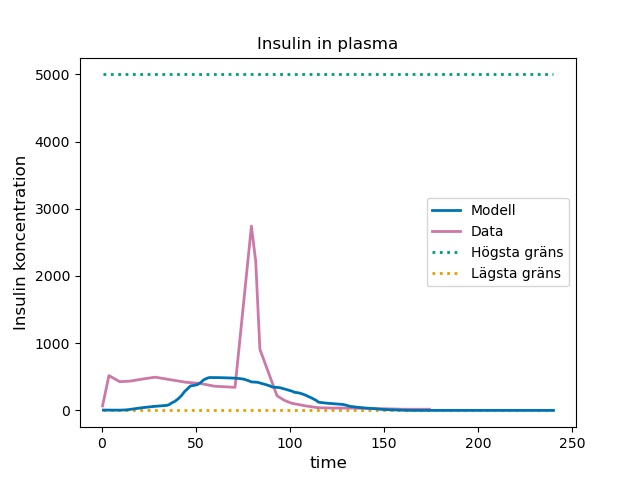
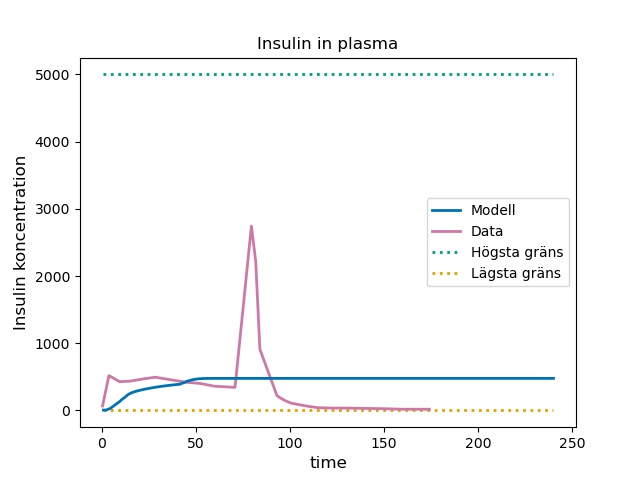
Sort of works without E

diff --git a/optimering/week16_open_loop_optimering.py b/optimering/week16_open_loop_optimering.py
@@ -26,7 +26,7 @@ cI_vec = data_I['conc'].values
 
 
 def open_loop(t,x,b): 
-    k1, k2, k3, k4, k5 = b
+    k1, k2, k3, k4, k5, k6 = b
      
     # Says that the concentrations can't be lower than zero 
     x[x < 0] = 0.0 
@@ -34,22 +34,25 @@ def open_loop(t,x,b):
     # Concentrations in the model as input 
     G, I, C, M, H = x 
 
-    L= 500 # Startvärde glukos i levern
+    L= 50 # Startvärde glukos i levern
 
     # Glucose plasma [1]
-    dG = k4*C*I + k1*H - k2*M
+    dG = k1*H + k3*C -k2*G*I
 
     # Insulin plasma [2]
-    dI = -k4*I*C + k3*G
+    dI = k6*G - k2*I*G
 
     # GLucose liver [3]
-    dC = -k4*C*I + L
+    dC = -k3*C 
 
     # Glucose musle [4]
-    dM = k2*G - k5*M
+    dM = k2*G*I - k4*M
 
     # Glucose intake [5]
     dH = -k1*H
+
+    # # Glucagon in plasma [6]
+    # dE = -k5*E + k4*M
 
     return [dG, dI, dC, dM, dH]
 
@@ -58,7 +61,7 @@ def open_loop(t,x,b):
 def cost_function(b, yG_vec, yI_vec): 
 
     # Start concentration, timespan   
-    x0 = [60, 5, 34, 3, 70]  # G, I, C, M, H 
+    x0 = [60, 3, 10000, 2, 70]  # G, I, C, M, H, E 
     time_span_G = [tG_vec[0], tG_vec[-1]] 
     time_span_I = [tI_vec[0], tI_vec[-1]] 
     
@@ -73,9 +76,10 @@ def cost_function(b, yG_vec, yI_vec):
 
     G_model = sol_qual.y[0]
     I_model = sol_qual.y[1]
-    C_model = sol_qual.y[2]
-    M_model = sol_qual.y[3]
-    H_model = sol_qual.y[4]
+    C_model = sol_qual.y[1]
+    M_model = sol_qual.y[2]
+    H_model = sol_qual.y[3]
+    #E_model = sol_qual.y[5]
 
 
     # Step 3: Extract G and I model concentrations at t-points tG_vec and tI_vec
@@ -85,34 +89,39 @@ def cost_function(b, yG_vec, yI_vec):
     # Step 4 : Build bounds for the concentrations and punnish the cost-func. if they go cross the bounds
     squared_sum = 0.0
 
-    range_G = [0, 50] # mM 
+    range_G = [0, 500] # mM 
     range_I = [0, 5000] #pM 
-    range_C = [0, 100] # mmol 
-    range_M = [0, 140] # mmol
+    range_C = [0, 10000] # mmol 
+    range_M = [0, 500] # mmol
     range_H = [0, 500] # mmol
+    # range_E = [0, 5]
 
-     
 
     if any(G_model) > np.max(range_G):
        squared_sum += 100
     if any(G_model) < np.min(range_G):
-        squared_sum += 100
+       squared_sum += 100
     if any(I_model) > np.max(range_I):
        squared_sum += 100
     if any(I_model) < np.min(range_I):
-        squared_sum += 100
+       squared_sum += 100
     if any(C_model) > np.max(range_C):
        squared_sum += 100
     if any(C_model) < np.min(range_C):
-        squared_sum += 100
+       squared_sum += 100
     if any(M_model) > np.max(range_M):
        squared_sum += 100
     if any(M_model) < np.min(range_M):
-        squared_sum += 100
+       squared_sum += 100
     if any(H_model) > np.max(range_H):
        squared_sum += 100
     if any(H_model) < np.min(range_H):
-        squared_sum += 100
+       squared_sum += 100
+    # if any(E_model) > np.max(range_E):
+    #    squared_sum += 100
+    # if any(E_model) < np.min(range_E):
+    #    squared_sum += 100
+    
     
 
     # Step 5: Calculate cost-function  
@@ -123,7 +132,7 @@ def cost_function(b, yG_vec, yI_vec):
 ## Hypercube set up
 randSeed = 2 # random number of choice
 lhsmdu.setRandomSeed(randSeed) # Latin Hypercube Sampling with multi-dimensional uniformity
-start = np.array(lhsmdu.sample(5, 1)) # Latin Hypercube Sampling with multi-dimensional uniformity (parameters, samples)
+start = np.array(lhsmdu.sample(6, 1)) # Latin Hypercube Sampling with multi-dimensional uniformity (parameters, samples)
 
 para, samples = start.shape
 
@@ -133,7 +142,7 @@ para_int = [0, 500]
 minimum = (np.inf, None)
 
 # Bounds for the model
-bound_low = np.array([0, 0, 0, 0, 0])
+bound_low = np.array([0, 0, 0, 0, 0, 0])
 bound_upp = np.repeat(np.inf, para)
 bounds = Bounds(bound_low, bound_upp)
 
@@ -144,15 +153,17 @@ for n in range(samples):
     k3 = start[2,n] * para_int[1]
     k4 = start[3,n] * para_int[1]
     k5 = start[4,n] * para_int[1]
+    k6 = start[5,n] * para_int[1]
+
     
-    res = minimize(cost_function, [k1, k2, k3, k4, k5], method='Powell', args = (cG_vec, cI_vec), bounds=bounds) #lägg in constraints här 
+    res = minimize(cost_function, [k1, k2, k3, k4, k5, k6], method='Powell', args = (cG_vec, cI_vec), bounds=bounds) #lägg in constraints här 
 
     if res.fun < minimum[0]:
         minimum = (res.fun, res.x)
 
 # Hämta modellen
 # Start concentration, timespan   
-x0 = [60, 5, 34, 3, 70]  # G, I, C, M, H 
+x0 = [60, 5, 10000, 2, 70]  # G, I, C, M, H, E
 time_span_G = [tG_vec[0], tG_vec[-1]] 
 time_span_I = [tI_vec[0], tI_vec[-1]] 
 
@@ -165,6 +176,8 @@ I_model = sol_qual.y[1]
 C_model = sol_qual.y[2]
 M_model = sol_qual.y[3]
 H_model = sol_qual.y[4]
+# E_model = sol_qual.y[5]
+
 
 
 # Print some statistics  
@@ -198,6 +211,10 @@ yM2_coordinates = [140,140]  # mmol (human)
  # Constrains glucose intake (H)
 yH1_coordinates = [0,0]    
 yH2_coordinates = [500,500]  
+
+#  # Constrains glucagon in plasma (E)
+# yE1_coordinates = [0,0]    
+# yE2_coordinates = [500,500] 
 
 
 # plotta glukos
@@ -304,3 +321,24 @@ if not os.path.isdir(path_result_dir):
 path_fig = path_result_dir + "/plot_glukos_intag.jpg"
 print("path_fig = {}".format(path_fig))
 plt.savefig(path_fig)
+
+# # plotta Glucagon in plasma
+# lw = 2.0
+# plot1 = plt.figure(6)
+# line1, = plt.plot(xT_coordinates, yE1_coordinates, linestyle=":", linewidth=lw, color=cb_palette1[1])
+# line2, = plt.plot(xT_coordinates, yE2_coordinates, linestyle=":", linewidth=lw, color=cb_palette1[3])
+# line3, = plt.plot(time_span, E_model, label = 'Glukagon i plasma', linestyle="-", linewidth=lw, color=cb_palette1[5]) # Lägga till modellen
+# plt.legend((line3, line2, line1), ("Modell", "Högsta gräns", "Lägsta gräns"))
+# plt.xlabel("time", fontsize=12), plt.ylabel("Glukos koncentration", fontsize=12)
+# plt.title("Glukagon i plasma")
+
+
+# # Sparar figur i plot constrains, glukos i muskeln
+# # Write the result to file
+# path_result_dir = "optimering/Bilder/plot_week16_open_loop_model"
+# # Check if directory exists
+# if not os.path.isdir(path_result_dir):
+#     os.mkdir(path_result_dir)  # Create a new directory if not existing
+# path_fig = path_result_dir + "/plot_glucagon_plasma.jpg"
+# print("path_fig = {}".format(path_fig))
+# plt.savefig(path_fig)

diff --git a/test.py b/test.py
@@ -1,0 +1,28 @@
+import numpy as np 
+import scipy.integrate as integrate 
+from scipy.optimize import minimize
+from scipy.optimize import Bounds
+import matplotlib.pyplot as plt 
+import math 
+import pandas as pd
+import os
+import lhsmdu
+
+# Colour-blind friendly palette (use nice colors)
+cb_palette1 = ["#999999", "#E69F00", "#56B4E9", "#009E73", "#F0E442", "#0072B2", "#D55E00", "#CC79A7"]
+
+# get data 
+data_G = pd.read_csv ("data_horses/glukos_FF_training.csv", sep=';')
+data_I = pd.read_csv ("data_horses/insulin_FF_training.csv", sep=';')
+data_G = data_G.sort_values(by=['time'])
+data_I = data_I.sort_values(by=['time'])
+
+
+# Extract times- and concentration-vectors
+tG_vec = data_G['time'].values
+tI_vec = data_I['time'].values  
+cG_vec = data_G['conc'].values
+cI_vec = data_I['conc'].values 
+
+for n in tG_vec:
+    if n <20
